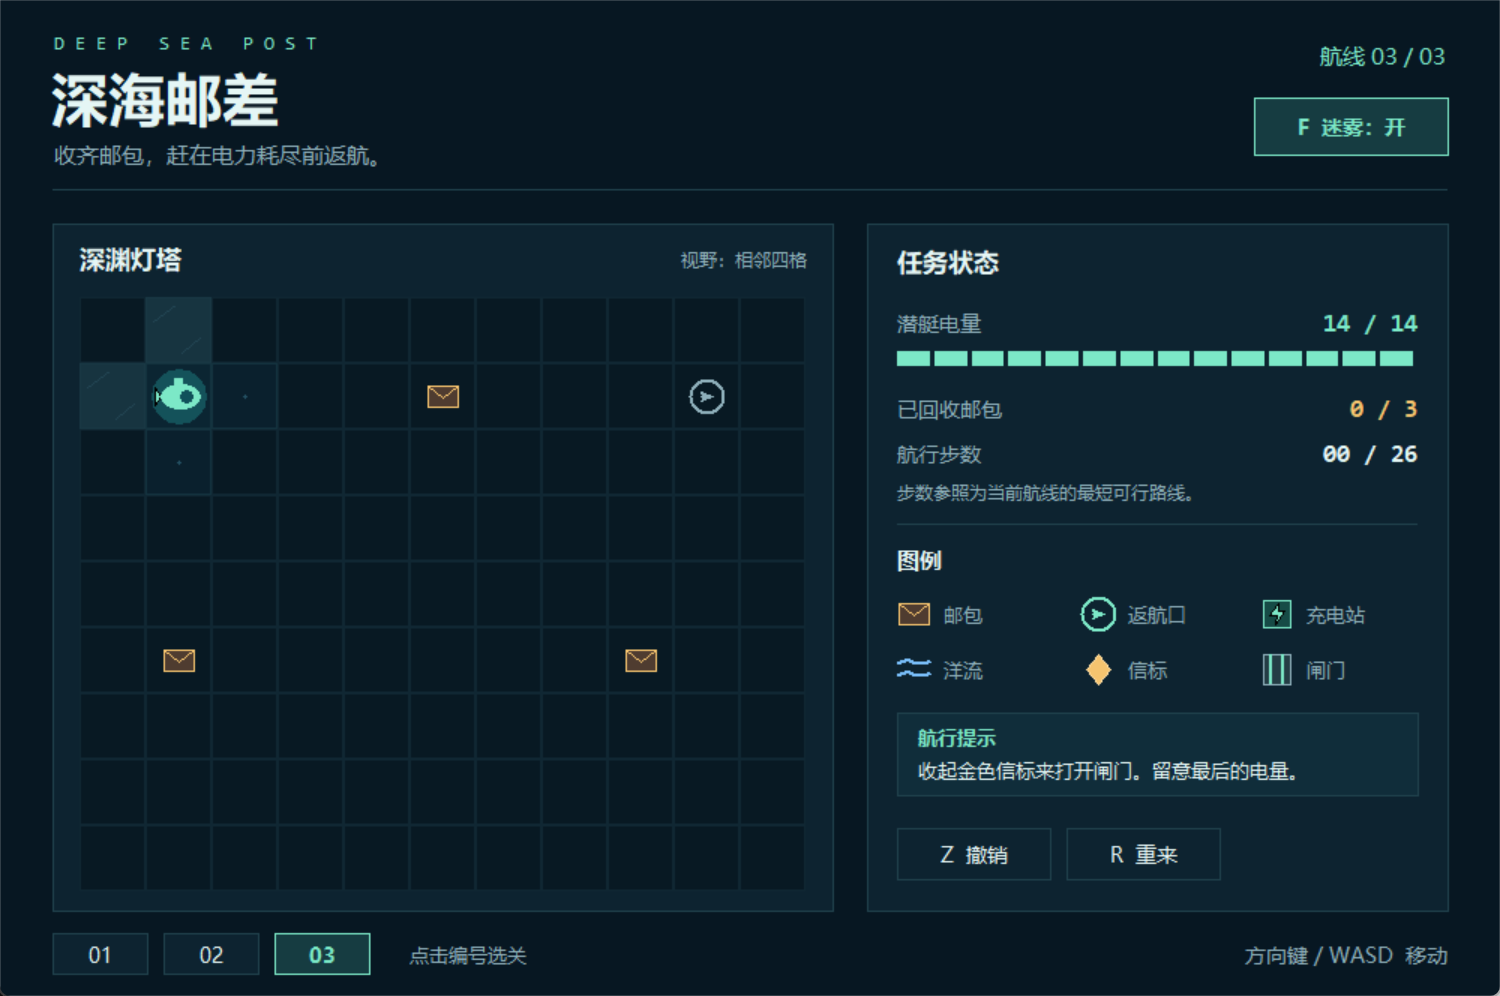
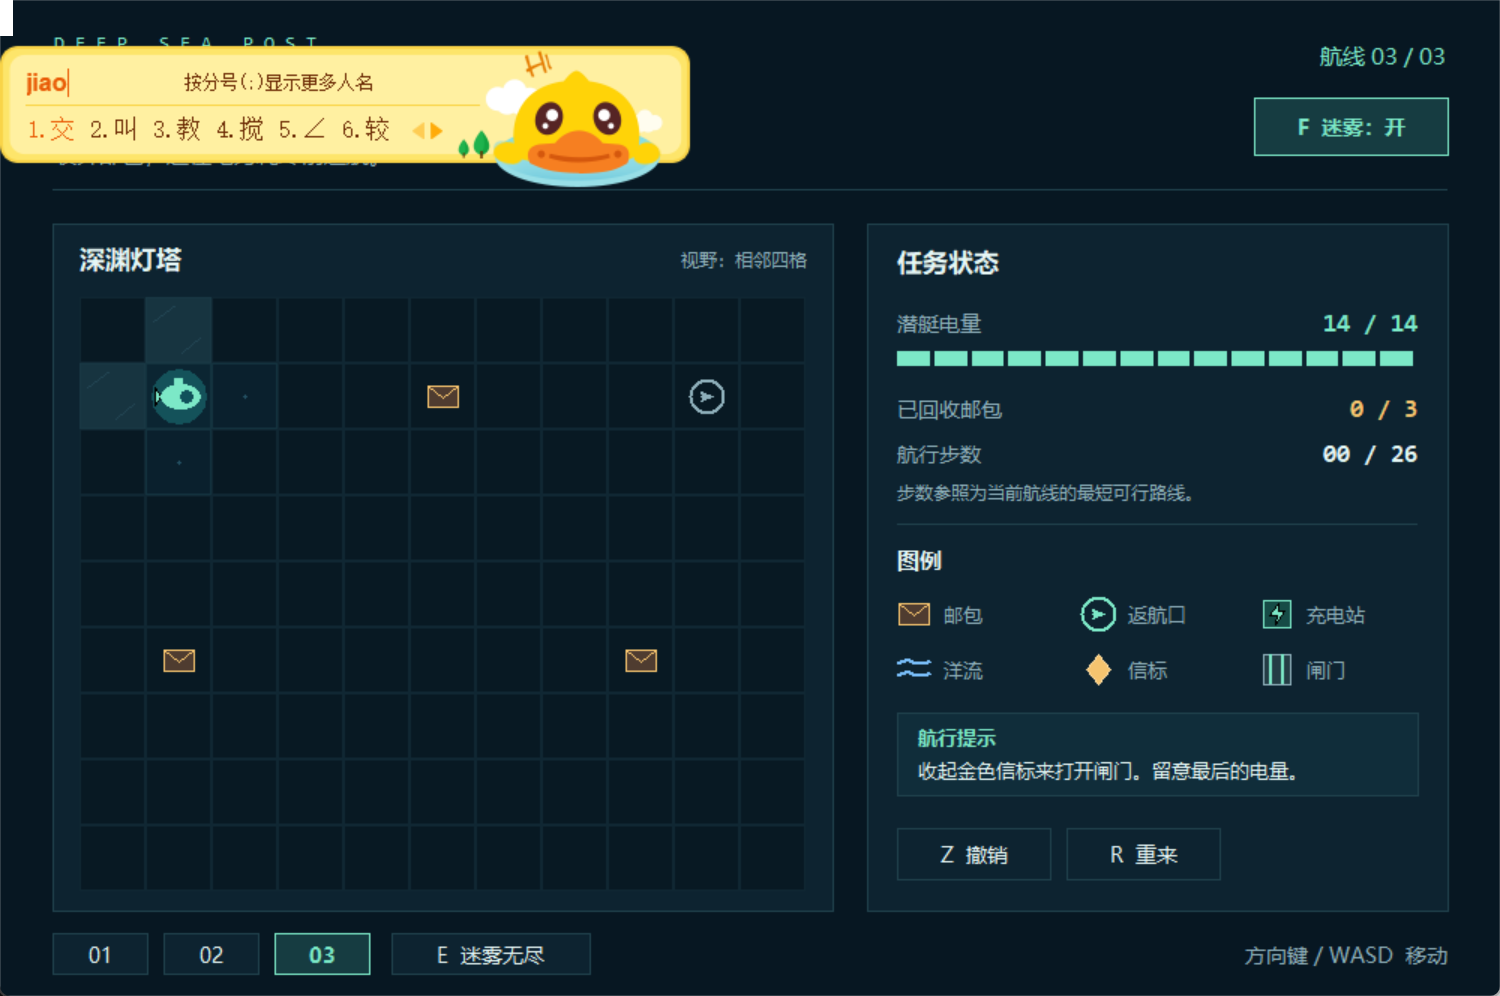
Add timed Endless Fog mode with respawning mail

Changed region(s): [[0.0, 0.0, 0.46, 0.1867], [0.276, 0.9337, 0.368, 0.996]]

diff --git a/main.py b/main.py
@@ -3,7 +3,7 @@
 import tkinter as tk
 from tkinter import font
 
-from game import DIVES, Game
+from game import DIVES, ENDLESS_SECONDS, EndlessGame, Game
 
 
 BG = "#071722"
@@ -37,16 +37,37 @@ class Window:
             "TkDefaultFont",
         )
         self.best = {}
+        self.endless_best = 0
         self.buttons = []
         self.fog = False
+        self.game: Game
         self.load(0)
         root.bind("<KeyPress>", self.key)
         self.canvas.bind("<Button-1>", self.click)
+        root.after(100, self.tick)
 
     def load(self, index):
         self.game = Game(index)
         self.message = self.game.dive.hint
         self.draw()
+
+    def load_endless(self):
+        if not isinstance(self.game, EndlessGame):
+            self.game = EndlessGame()
+            self.message = self.game.dive.hint
+            self.draw()
+
+    def restart(self):
+        self.game.reset()
+        self.message = self.game.dive.hint
+        self.draw()
+
+    def tick(self):
+        if isinstance(self.game, EndlessGame) and self.game.state.outcome == "playing":
+            self.game.expire()
+            if self.game.seconds_left != self.shown_seconds or self.game.state.outcome == "timeout":
+                self.draw()
+        self.root.after(100, self.tick)
 
     def key(self, event):
         key = event.keysym if event.keysym in DIRECTIONS else event.keysym.lower()
@@ -55,9 +76,11 @@ class Window:
         elif key in ("z", "backspace"):
             self.undo()
         elif key == "r":
-            self.load(self.game.index)
+            self.restart()
         elif key == "f":
             self.toggle_fog()
+        elif key == "e":
+            self.load_endless()
         elif key in ("1", "2", "3"):
             self.load(int(key) - 1)
         elif key == "return" and self.game.state.outcome == "won":
@@ -74,10 +97,12 @@ class Window:
         if state.outcome == "won":
             best = self.best.get(self.game.index, state.turns)
             self.best[self.game.index] = min(best, state.turns)
+        if isinstance(self.game, EndlessGame):
+            self.endless_best = max(self.endless_best, self.game.score)
         self.draw()
 
     def undo(self):
-        if self.game.undo():
+        if not isinstance(self.game, EndlessGame) and self.game.undo():
             self.message = "已撤销一步，电量与地图状态已恢复。"
             self.draw()
 
@@ -85,8 +110,9 @@ class Window:
         self.load((self.game.index + 1) % len(DIVES))
 
     def toggle_fog(self):
-        self.fog = not self.fog
-        self.draw()
+        if not isinstance(self.game, EndlessGame):
+            self.fog = not self.fog
+            self.draw()
 
     def click(self, event):
         for (x1, y1, x2, y2), action in self.buttons:
@@ -116,18 +142,24 @@ class Window:
         self.buttons.clear()
         state = self.game.state
         dive = self.game.dive
+        endless = isinstance(self.game, EndlessGame)
         self.label(36, 28, "D E E P   S E A   P O S T", 13, MINT, mono=True)
         self.label(34, 65, "深海邮差", 38, TEXT, True)
-        self.label(36, 103, "收齐邮包，赶在电力耗尽前返航。", 15, MUTED)
-        self.label(964, 37, f"航线 {self.game.index + 1:02} / {len(DIVES):02}", 15,
-                   MINT, anchor="e")
-        fog_caption = "F  迷雾：开" if self.fog else "F  迷雾：关"
-        self.button((836, 65, 965, 103), fog_caption, self.toggle_fog, active=self.fog)
+        if endless:
+            self.label(36, 103, f"在 {ENDLESS_SECONDS} 秒内尽可能多地回收邮包。", 15, MUTED)
+            self.label(964, 37, "限时挑战", 15, GOLD, anchor="e")
+            self.label(964, 84, "迷雾常驻", 14, MUTED, anchor="e")
+        else:
+            self.label(36, 103, "收齐邮包，赶在电力耗尽前返航。", 15, MUTED)
+            self.label(964, 37, f"航线 {self.game.index + 1:02} / {len(DIVES):02}", 15,
+                       MINT, anchor="e")
+            fog_caption = "F  迷雾：开" if self.fog else "F  迷雾：关"
+            self.button((836, 65, 965, 103), fog_caption, self.toggle_fog, active=self.fog)
         self.canvas.create_line(35, 126, 965, 126, fill=EDGE)
 
         self.box(35, 149, 555, 607, PANEL, EDGE)
         self.label(53, 173, dive.name, 17, TEXT, True)
-        chart_label = "视野：相邻四格" if self.fog else "航  行  图"
+        chart_label = "视野：相邻四格" if endless or self.fog else "航  行  图"
         self.label(538, 173, chart_label, 12, MUTED, anchor="e")
         for y, row in enumerate(dive.chart):
             for x, value in enumerate(row):
@@ -145,12 +177,35 @@ class Window:
             self.box(left, 234, left + bar_width - 3, 244,
                      battery_color if segment < state.battery else "#23404A")
 
+        if isinstance(self.game, EndlessGame):
+            self.draw_endless_stats(self.game)
+        else:
+            self.draw_route_stats()
+
+        self.notice()
+        if not endless:
+            self.button((598, 552, 700, 586), "Z  撤销", self.undo)
+        self.button((711, 552, 813, 586), "R  重来", self.restart)
+        if state.outcome == "won":
+            caption = "下一航线 →" if self.game.index < len(DIVES) - 1 else "返回首关 →"
+            self.button((824, 552, 945, 586), caption, self.advance, active=True)
+
+        for i in range(len(DIVES)):
+            x = 35 + i * 74
+            suffix = " ✓" if i in self.best else ""
+            self.button((x, 622, x + 63, 649), f"{i + 1:02}{suffix}",
+                        lambda index=i: self.load(index), active=not endless and self.game.index == i)
+        self.button((261, 622, 393, 649), "E  迷雾无尽", self.load_endless, active=endless)
+        self.label(965, 636, "方向键 / WASD  移动", 14, MUTED, anchor="e")
+
+    def draw_route_stats(self):
+        state = self.game.state
         self.label(598, 272, "已回收邮包", 14, MUTED)
         collected = self.game.total_packets - len(state.packets)
         self.label(945, 272, f"{collected} / {self.game.total_packets}", 17, GOLD,
                    True, "e", True)
         self.label(598, 302, "航行步数", 14, MUTED)
-        self.label(945, 302, f"{state.turns:02} / {dive.par:02}", 17, TEXT,
+        self.label(945, 302, f"{state.turns:02} / {self.game.dive.par:02}", 17, TEXT,
                    True, "e", True)
         self.label(598, 328, "步数参照为当前航线的最短可行路线。", 12, MUTED)
         self.canvas.create_line(598, 349, 945, 349, fill=EDGE)
@@ -163,27 +218,31 @@ class Window:
             self.symbol(x, y, icon, ready=True)
             self.label(x + 20, y, caption, 13, MUTED)
 
-        self.notice()
-        self.button((598, 552, 700, 586), "Z  撤销", self.undo)
-        self.button((711, 552, 813, 586), "R  重来", lambda: self.load(self.game.index))
-        if state.outcome == "won":
-            caption = "下一航线 →" if self.game.index < len(DIVES) - 1 else "返回首关 →"
-            self.button((824, 552, 945, 586), caption, self.advance, active=True)
-
-        for i in range(len(DIVES)):
-            x = 35 + i * 74
-            suffix = " ✓" if i in self.best else ""
-            self.button((x, 622, x + 63, 649), f"{i + 1:02}{suffix}",
-                        lambda index=i: self.load(index), active=self.game.index == i)
-        self.label(273, 636, "点击编号选关", 13, MUTED)
-        self.label(965, 636, "方向键 / WASD  移动", 14, MUTED, anchor="e")
+    def draw_endless_stats(self, game):
+        self.shown_seconds = game.seconds_left
+        self.label(598, 272, "剩余时间", 14, MUTED)
+        clock = f"{self.shown_seconds // 60:02}:{self.shown_seconds % 60:02}"
+        timer_color = RED if self.shown_seconds <= 10 else MINT
+        self.label(945, 272, clock, 24, timer_color, True, "e", True)
+        self.label(598, 309, "回收邮包", 14, MUTED)
+        self.label(945, 309, f"{game.score:02}", 21, GOLD, True, "e", True)
+        self.label(598, 335, f"本次打开游戏后的最佳成绩：{self.endless_best}", 12, MUTED)
+        self.canvas.create_line(598, 349, 945, 349, fill=EDGE)
+        self.label(598, 373, "挑战规则", 15, TEXT, True)
+        self.symbol(609, 408, "P")
+        self.label(630, 408, "回收一个邮包，立即充电并刷新下一个。", 13, MUTED)
+        self.label(598, 444, "倒计时持续进行，电量耗尽也会结束挑战。", 13, MUTED)
 
     def notice(self):
         state = self.game.state
         color = MINT
         heading = "航行提示"
         message = self.message
-        if state.outcome == "won":
+        if isinstance(self.game, EndlessGame) and state.outcome != "playing":
+            heading = "时间到" if state.outcome == "timeout" else "电量耗尽"
+            color = GOLD if state.outcome == "timeout" else RED
+            message = f"本轮回收 {self.game.score} 封邮包。按 R 再挑战。"
+        elif state.outcome == "won":
             heading = "投递成功"
             message = f"本关最佳 {self.best[self.game.index]} 步。本次已完成 {len(self.best)} / {len(DIVES)} 条航线。"
         elif state.outcome == "lost":
@@ -200,7 +259,7 @@ class Window:
         cx, cy = left + TILE / 2, top + TILE / 2
         point = (x, y)
         px, py = state.position
-        if self.fog and abs(x - px) + abs(y - py) > 1:
+        if (self.fog or isinstance(self.game, EndlessGame)) and abs(x - px) + abs(y - py) > 1:
             self.box(left, top, left + TILE - 1, top + TILE - 1, "#081923", "#102733")
             if point in state.packets:
                 self.symbol(cx, cy, "P")

diff --git a/game.py b/game.py
@@ -1,6 +1,10 @@
 """Rules and maps for Deep Sea Post. The model can run without a GUI."""
 
-from dataclasses import dataclass
+from collections import deque
+from dataclasses import dataclass, replace
+from math import ceil
+from random import choice
+from time import monotonic
 from typing import NamedTuple
 
 
@@ -48,6 +52,19 @@ DIVES = (
     )),
 )
 
+ENDLESS_SECONDS = 60
+ENDLESS_DIVE = Dive("迷雾无尽", "跟着邮包标记探索。回收后会立即充满电。", 15, 0, (
+    "###########",
+    "#S..#.....#",
+    "#.#.#.##..#",
+    "#.#.......#",
+    "#...###.#.#",
+    "###.....#.#",
+    "#...#.#...#",
+    "#.........#",
+    "###########",
+))
+
 
 @dataclass(frozen=True)
 class State:
@@ -61,12 +78,12 @@ class State:
 
 
 class Game:
-    def __init__(self, index=0):
+    def __init__(self, index=0, *, dive=None):
         self.index = index
-        self.dive = DIVES[index]
+        self.dive = DIVES[index] if dive is None else dive
         self.chart = self.dive.chart
         self.start = next(iter(self.find("S")))
-        self.exit = next(iter(self.find("E")))
+        self.exit = next(iter(self.find("E")), None)
         self.total_packets = len(self.find("P"))
         self.reset()
 
@@ -130,3 +147,61 @@ class Game:
             return False
         self.state = self.history.pop()
         return True
+
+
+class EndlessGame(Game):
+    """Timed score challenge with one reachable packet on the chart at a time."""
+
+    def __init__(self, clock=monotonic):
+        self.clock = clock
+        super().__init__(dive=ENDLESS_DIVE)
+
+    def reset(self):
+        super().reset()
+        self.score = 0
+        self.state = replace(self.state, packets=self.spawn(self.start))
+        self.finished_seconds = None
+        self.deadline = self.clock() + ENDLESS_SECONDS
+
+    @property
+    def seconds_left(self):
+        if self.finished_seconds is not None:
+            return self.finished_seconds
+        return max(0, ceil(self.deadline - self.clock()))
+
+    def expire(self):
+        if self.state.outcome == "playing" and self.seconds_left == 0:
+            self.state = replace(self.state, outcome="timeout")
+
+    def spawn(self, start):
+        # Every step on this chart costs one unit, so BFS gives the energy cost.
+        queue = deque([(start, 0)])
+        seen = {start}
+        candidates = []
+        while queue:
+            (x, y), distance = queue.popleft()
+            if distance >= 5:
+                candidates.append((x, y))
+            if distance == 10:
+                continue
+            for nx, ny in ((x - 1, y), (x + 1, y), (x, y - 1), (x, y + 1)):
+                point = nx, ny
+                if point not in seen and self.chart[ny][nx] != "#":
+                    seen.add(point)
+                    queue.append((point, distance + 1))
+        return frozenset({choice(candidates)})
+
+    def move(self, dx, dy):
+        self.expire()
+        before = self.state
+        message = super().move(dx, dy)
+        self.history.clear()
+        if self.state.packets == before.packets:
+            if self.state.outcome == "lost":
+                self.finished_seconds = self.seconds_left
+            return message
+
+        self.score += 1
+        self.state = replace(self.state, battery=self.dive.battery, outcome="playing",
+                             packets=self.spawn(self.state.position))
+        return "邮包已回收，电量充满，新邮包已出现。"

diff --git a/README.md b/README.md
@@ -1,6 +1,6 @@
 # 深海郵便 / Deep Sea Post
 
-潜水艇を操作し、電池が切れる前にすべての郵便物を回収して帰還する、全3ステージのターン制パズルです。第14・15回の最終制作を参考にしたオリジナル作品のデモです。ゲーム画面の表示言語は中国語です。
+潜水艇を操作して郵便物を回収するパズルゲームです。全3ステージの通常航路と、60秒の霧のエンドレスモードを遊べます。第14・15回の最終制作を参考にしたオリジナル作品のデモです。ゲーム画面の表示言語は中国語です。
 
 ## 動作環境・インストール
 
@@ -28,12 +28,17 @@ py main.py
 | Z / Backspace | 直前の1手を取り消す |
 | R | 現在のステージを最初からやり直す |
 | F | 霧モードのオン・オフを切り替える |
+| E | 霧のエンドレスモードを始める |
 | 1 / 2 / 3 | ステージを選ぶ |
 | Enter | クリア後、次のステージへ進む |
 
 封筒をすべて回収すると帰還口に入れます。通常の移動は電池を1目盛り、青い海流マスへの移動は3目盛り消費します。充電所はステージ中に一度だけ使えます。金色のビーコンを拾うとゲートが開きます。岩や閉じたゲートに阻まれた場合は、電池も手数も消費しません。
 
 霧モードでは潜水艇の現在地と上下左右の4マスだけ地形が見えます。回収していない郵便物と帰還口は、離れていても地図に表示されます。画面右上のボタンでも切り替えられ、途中で切り替えても電池や手数は変わりません。
+
+## 霧のエンドレスモード
+
+`E` または画面下部の「迷雾无尽」ボタンで、60秒の挑戦を始めます。郵便物を1つ回収するたびに電池が満タンになり、到達できる別の場所に次の郵便物が現れます。タイマーは回収後も進み続けます。制限時間に達するか、電池を使い切ると、回収数で結果が決まります。霧は常に有効で、取り消しはできません。`R` で再挑戦、`1` から `3` で通常の航路に戻れます。
 
 ## 実装した機能
 
@@ -42,6 +47,7 @@ py main.py
 3. **手順の取り消し** — 移動前の状態を履歴に保存し、位置、電池、回収物、充電所、ゲートをまとめて1手前へ戻します。電池切れの後も使用できます。
 4. **3つの航路と手数表示** — 下部の番号から航路を選べます。最短のクリア手数を目安として表示し、クリア済みの航路にチェックを付けます。
 5. **霧モード** — `Window.tile()` が潜水艇との距離に応じて地形を隠します。ゲームの進行状況やマップのルールはそのままなので、3つの航路すべてで切り替えられます。
+6. **霧のエンドレスモード** — `EndlessGame` が残り時間と回収数を管理します。幅優先探索で現在地から5〜10歩で到達できるマスを探し、その中から次の郵便物の位置をランダムに決めます。
 
 ## コードの構成
 
@@ -53,6 +59,8 @@ py main.py
 ![第3航路を表示したゲーム画面](screenshot.png)
 
 ![第3航路の霧モード](fog-mode.png)
+
+![霧のエンドレスモード](endless-mode.png)
 
 ## 制限事項
 
